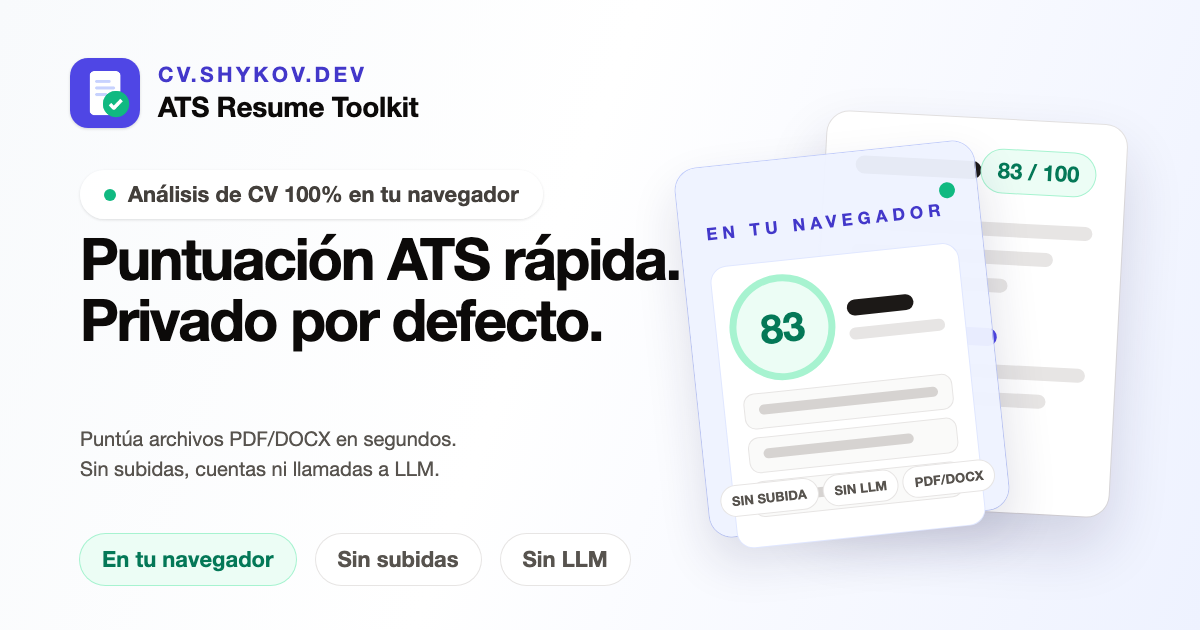
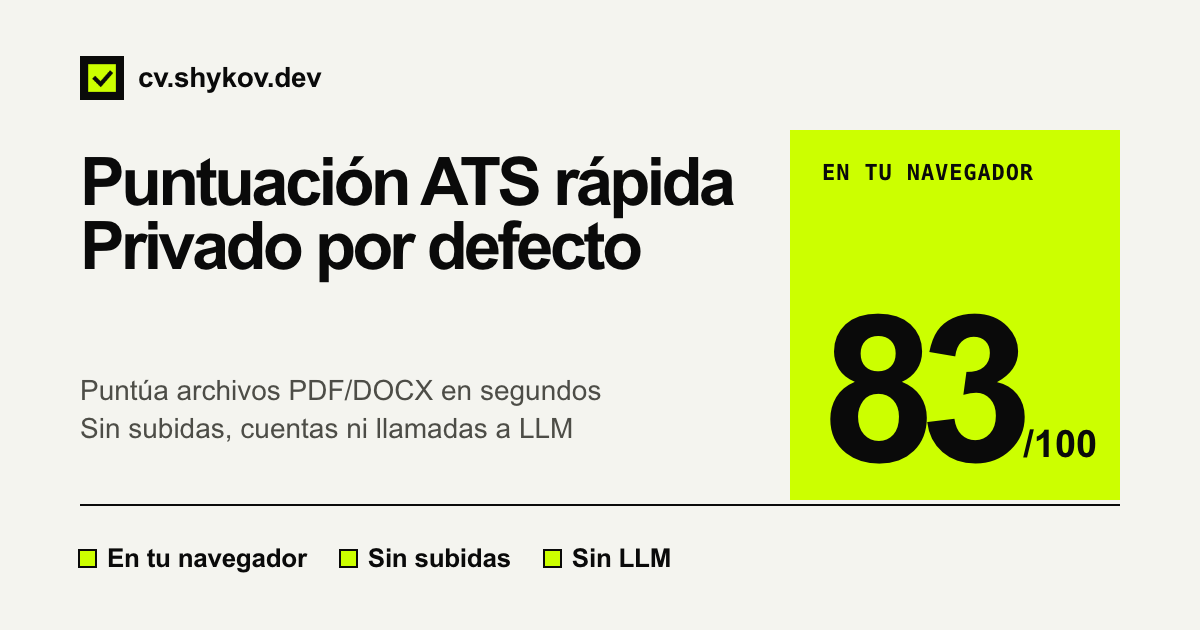
feat(design): social cards in the new look, all seven languages
Ink on paper, the logo, the headline without full stops, a supporting line, three plain facts and one
neon block with an example score; text from messages.og, the self-hosted fonts (Onest draws Cyrillic).
The script now renders English too (public/og-image.png). messages.og.badge and cardChips are gone
(unused); docs/design.md and localization.md describe the cards.

Networks cache a card per URL: a link that was already shared keeps the old picture until its
debugger re-scrapes it.

diff --git a/src/i18n/messages/uk.ts b/src/i18n/messages/uk.ts
@@ -44,12 +44,10 @@ export const uk: Messages = {
   },
 
   og: {
-    badge: '100% аналізу у браузері',
     headline: ['Швидкий ATS-скор.', 'Приватно за замовчуванням.'],
     sub: ['Оцінка PDF/DOCX за секунди.', 'Без завантаження, акаунтів і LLM.'],
     chips: ['Працює у браузері', 'Без завантаження', 'Без LLM'],
     cardLabel: 'У вашому браузері',
-    cardChips: ['Без завантаження', 'Без LLM', 'PDF/DOCX'],
   },
 
   languages: {

diff --git a/src/i18n/messages/en.ts b/src/i18n/messages/en.ts
@@ -45,12 +45,10 @@ export const en = {
 
   // Text drawn on the social-card image (scripts/og-images.mjs).
   og: {
-    badge: '100% in-browser resume analysis',
     headline: ['Fast ATS score.', 'Private by default.'],
     sub: ['Score PDF/DOCX files in seconds.', 'No uploads, accounts, or LLM calls.'],
     chips: ['Runs in browser', 'No uploads', 'No LLM'],
     cardLabel: 'In your browser',
-    cardChips: ['No upload', 'No LLM', 'PDF/DOCX'],
   },
 
   languages: {

diff --git a/src/i18n/messages/fr.ts b/src/i18n/messages/fr.ts
@@ -36,12 +36,10 @@ export const fr: Messages = {
   },
 
   og: {
-    badge: 'Analyse du CV 100 % dans le navigateur',
     headline: ['Score ATS en secondes.', 'Votre CV reste privé.'],
     sub: ['Analysez vos PDF/DOCX en secondes.', 'Sans envoi, sans compte, sans IA.'],
     chips: ['Dans le navigateur', 'Sans envoi', 'Sans LLM'],
     cardLabel: 'Dans le navigateur',
-    cardChips: ['Sans envoi', 'Sans LLM', 'PDF/DOCX'],
   },
 
   languages: {

diff --git a/src/i18n/messages/es.ts b/src/i18n/messages/es.ts
@@ -34,12 +34,10 @@ export const es: Messages = {
   },
 
   og: {
-    badge: 'Análisis de CV 100% en tu navegador',
     headline: ['Puntuación ATS rápida.', 'Privado por defecto.'],
     sub: ['Puntúa archivos PDF/DOCX en segundos.', 'Sin subidas, cuentas ni llamadas a LLM.'],
     chips: ['En tu navegador', 'Sin subidas', 'Sin LLM'],
     cardLabel: 'En tu navegador',
-    cardChips: ['Sin subida', 'Sin LLM', 'PDF/DOCX'],
   },
 
   languages: {

diff --git a/src/i18n/messages/pt-pt.ts b/src/i18n/messages/pt-pt.ts
@@ -35,12 +35,10 @@ export const ptPT: Messages = {
   },
 
   og: {
-    badge: 'Análise de CV 100% no navegador',
     headline: ['Pontuação ATS rápida.', 'Privado por defeito.'],
     sub: ['Pontue ficheiros PDF/DOCX em segundos.', 'Sem carregamentos, contas nem LLM.'],
     chips: ['Corre no navegador', 'Sem carregar', 'Sem LLM'],
     cardLabel: 'No navegador',
-    cardChips: ['Sem carregar', 'Sem LLM', 'PDF/DOCX'],
   },
 
   languages: {

diff --git a/src/i18n/messages/de.ts b/src/i18n/messages/de.ts
@@ -36,12 +36,10 @@ export const de: Messages = {
   },
 
   og: {
-    badge: '100 % Lebenslauf-Analyse im Browser',
     headline: ['Lebenslauf ATS Check.', 'Privat im Browser.'],
     sub: ['PDF/DOCX in Sekunden prüfen.', 'Kein Upload, kein Konto, keine KI.'],
     chips: ['Läuft im Browser', 'Kein Upload', 'Kein LLM'],
     cardLabel: 'Im Browser',
-    cardChips: ['Kein Upload', 'Kein LLM', 'PDF/DOCX'],
   },
 
   languages: {

diff --git a/src/i18n/messages/pt-br.ts b/src/i18n/messages/pt-br.ts
@@ -33,12 +33,10 @@ export const ptBR: Messages = {
   },
 
   og: {
-    badge: 'Análise de currículo 100% no navegador',
     headline: ['Pontuação ATS grátis.', 'Privada por padrão.'],
     sub: ['Pontue PDF/DOCX em segundos.', 'Sem envio, cadastro ou LLM.'],
     chips: ['Roda no navegador', 'Sem envio', 'Sem LLM'],
     cardLabel: 'No navegador',
-    cardChips: ['Sem envio', 'Sem LLM', 'PDF/DOCX'],
   },
 
   languages: {

diff --git a/src/i18n/locales.test.ts b/src/i18n/locales.test.ts
@@ -166,7 +166,6 @@ for (const loc of LOCALES) {
     assert.equal(m.og.headline.length, 2)
     assert.equal(m.og.sub.length, 2)
     assert.equal(m.og.chips.length, 3)
-    assert.equal(m.og.cardChips.length, 3)
     assert.ok(m.og.headline.every((line) => line.length <= 26), `OG headline lines must fit the card: ${m.og.headline.join(' / ')}`)
   })
 

diff --git a/docs/design.md b/docs/design.md
@@ -146,10 +146,15 @@ when the Build view opens, as before. The FAQ questions are `<h2>` inside `<summ
 
 ## Icons
 
-`public/favicon.svg`, `favicon.ico`, `logo.png`: neon square with an ink check on ink. The
-social cards (`public/og-image.png`, `public/og/*.png`) still show the previous indigo look:
-they are already shared and cached by networks, so they are redrawn on the owner's say-so
-(`npm run og-images -- --en`), not as a side effect of a redesign.
+`public/favicon.svg`, `favicon.ico`, `logo.png`: neon square with an ink check on ink; the same mark is
+the inline logo in the header (`LogoMark`).
+
+The social cards (`public/og-image.png` for English, `public/og/<code>.png`) are drawn by
+`npm run og-images` (needs Google Chrome), from `messages.og` and the self-hosted fonts: the
+headline (no full stops), a supporting line, three plain facts and one neon block with an example
+score. Redraw them whenever the headline or the look changes. A network caches a card per URL, so a
+link that was already shared keeps its old picture until its debugger (LinkedIn Post Inspector,
+Facebook Sharing Debugger) re-scrapes it.
 
 ## Checks before a design PR
 

diff --git a/docs/localization.md b/docs/localization.md
@@ -153,8 +153,9 @@ the tests tell you what you missed.
    body, `summary`, `faq`; link to `/it/<slug>` and `/it/`; use `rubricRows` /
    `sectionRows` from `../tables.ts` with the new messages and `LangCode`).
 6. **`_headers`** — add the `/it/` and `/it/index.html` no-cache pair.
-7. **OG image fonts/text** — nothing to do unless the language needs a glyph the
-   card font lacks; then see `scripts/og-images.mjs`.
+7. **OG image fonts/text** — the card uses the site's self-hosted fonts (Schibsted
+   Grotesk for Latin, Onest for Cyrillic); a script with other glyphs needs a font file in
+   `src/fonts/` and an `@font-face` in `scripts/og-images.mjs`.
 8. **Generate the social card** — `npm run og-images` (needs Google Chrome), commit
    `public/og/it.png`.
 9. **Validate** — `npm run lint && npm test && npm run build && npm run smoke:build`.

diff --git a/CLAUDE.md b/CLAUDE.md
@@ -38,7 +38,7 @@ npm run build    # tsc + vite build (CI gate runs lint + test + build)
 npm run build:debug # same build with production source maps for stack traces
 npx vite preview --port 4319   # serves the prod build WITH the production CSP
 npm run indexnow -- --dry-run  # IndexNow payload; without --dry-run it SUBMITS (external write — owner approval)
-npm run og-images              # redraw public/og/<locale>.png from messages.og (needs Google Chrome)
+npm run og-images              # redraw public/og-image.png and public/og/<locale>.png from messages.og (needs Google Chrome)
 npm run smoke:build            # after build: every built page in every language (lang, hreflang, canonical, JSON-LD, dead links)
 ```
 
